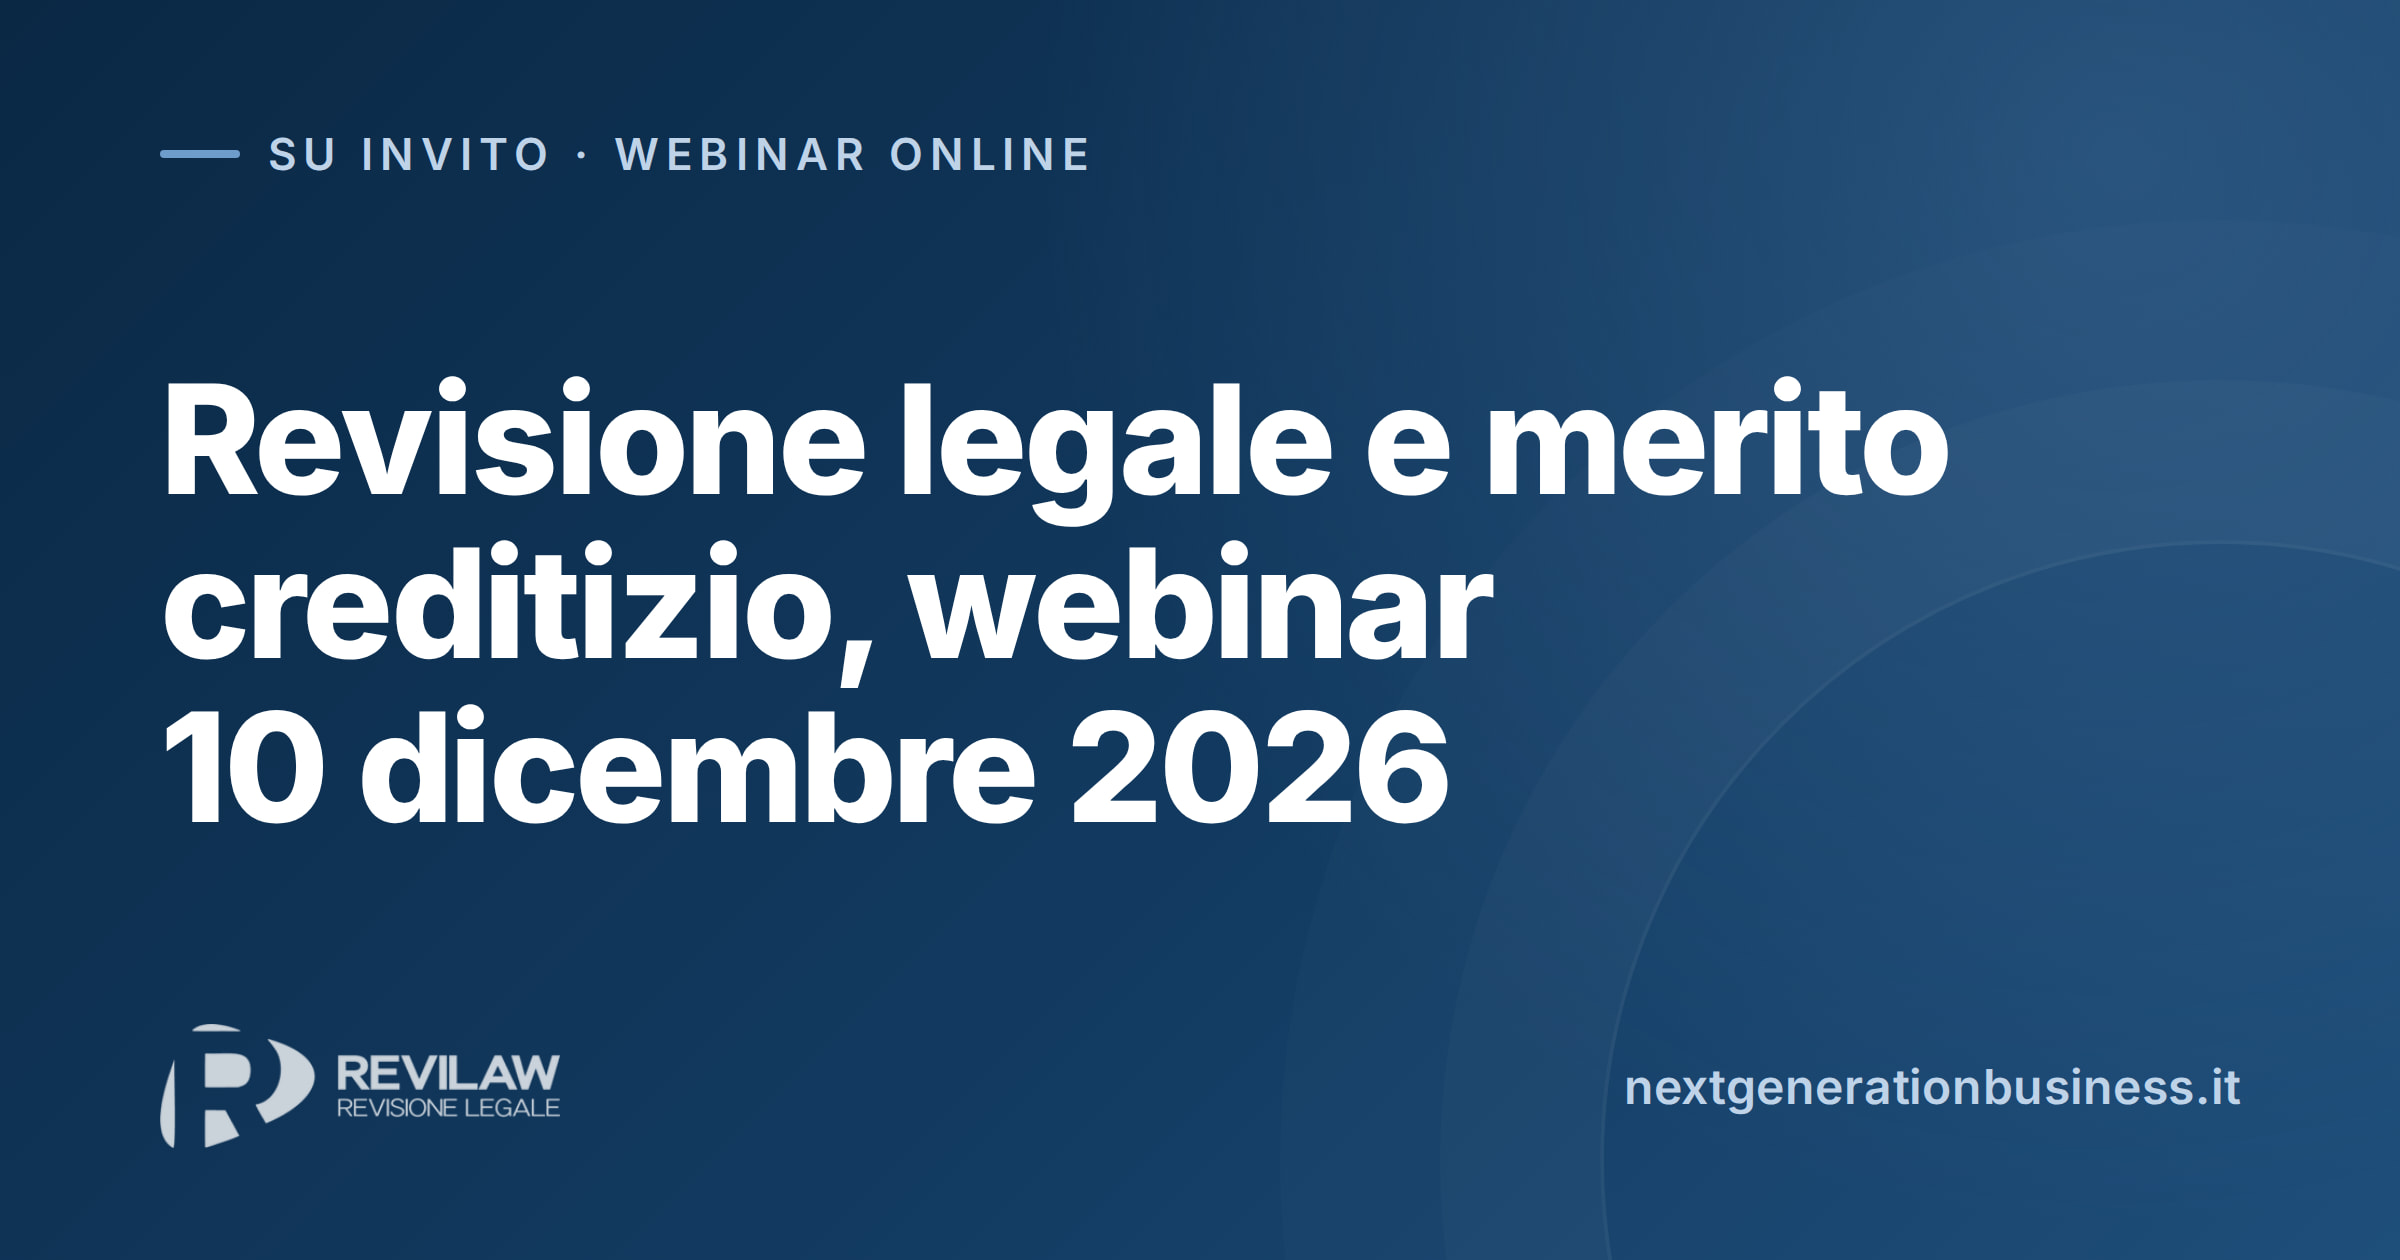
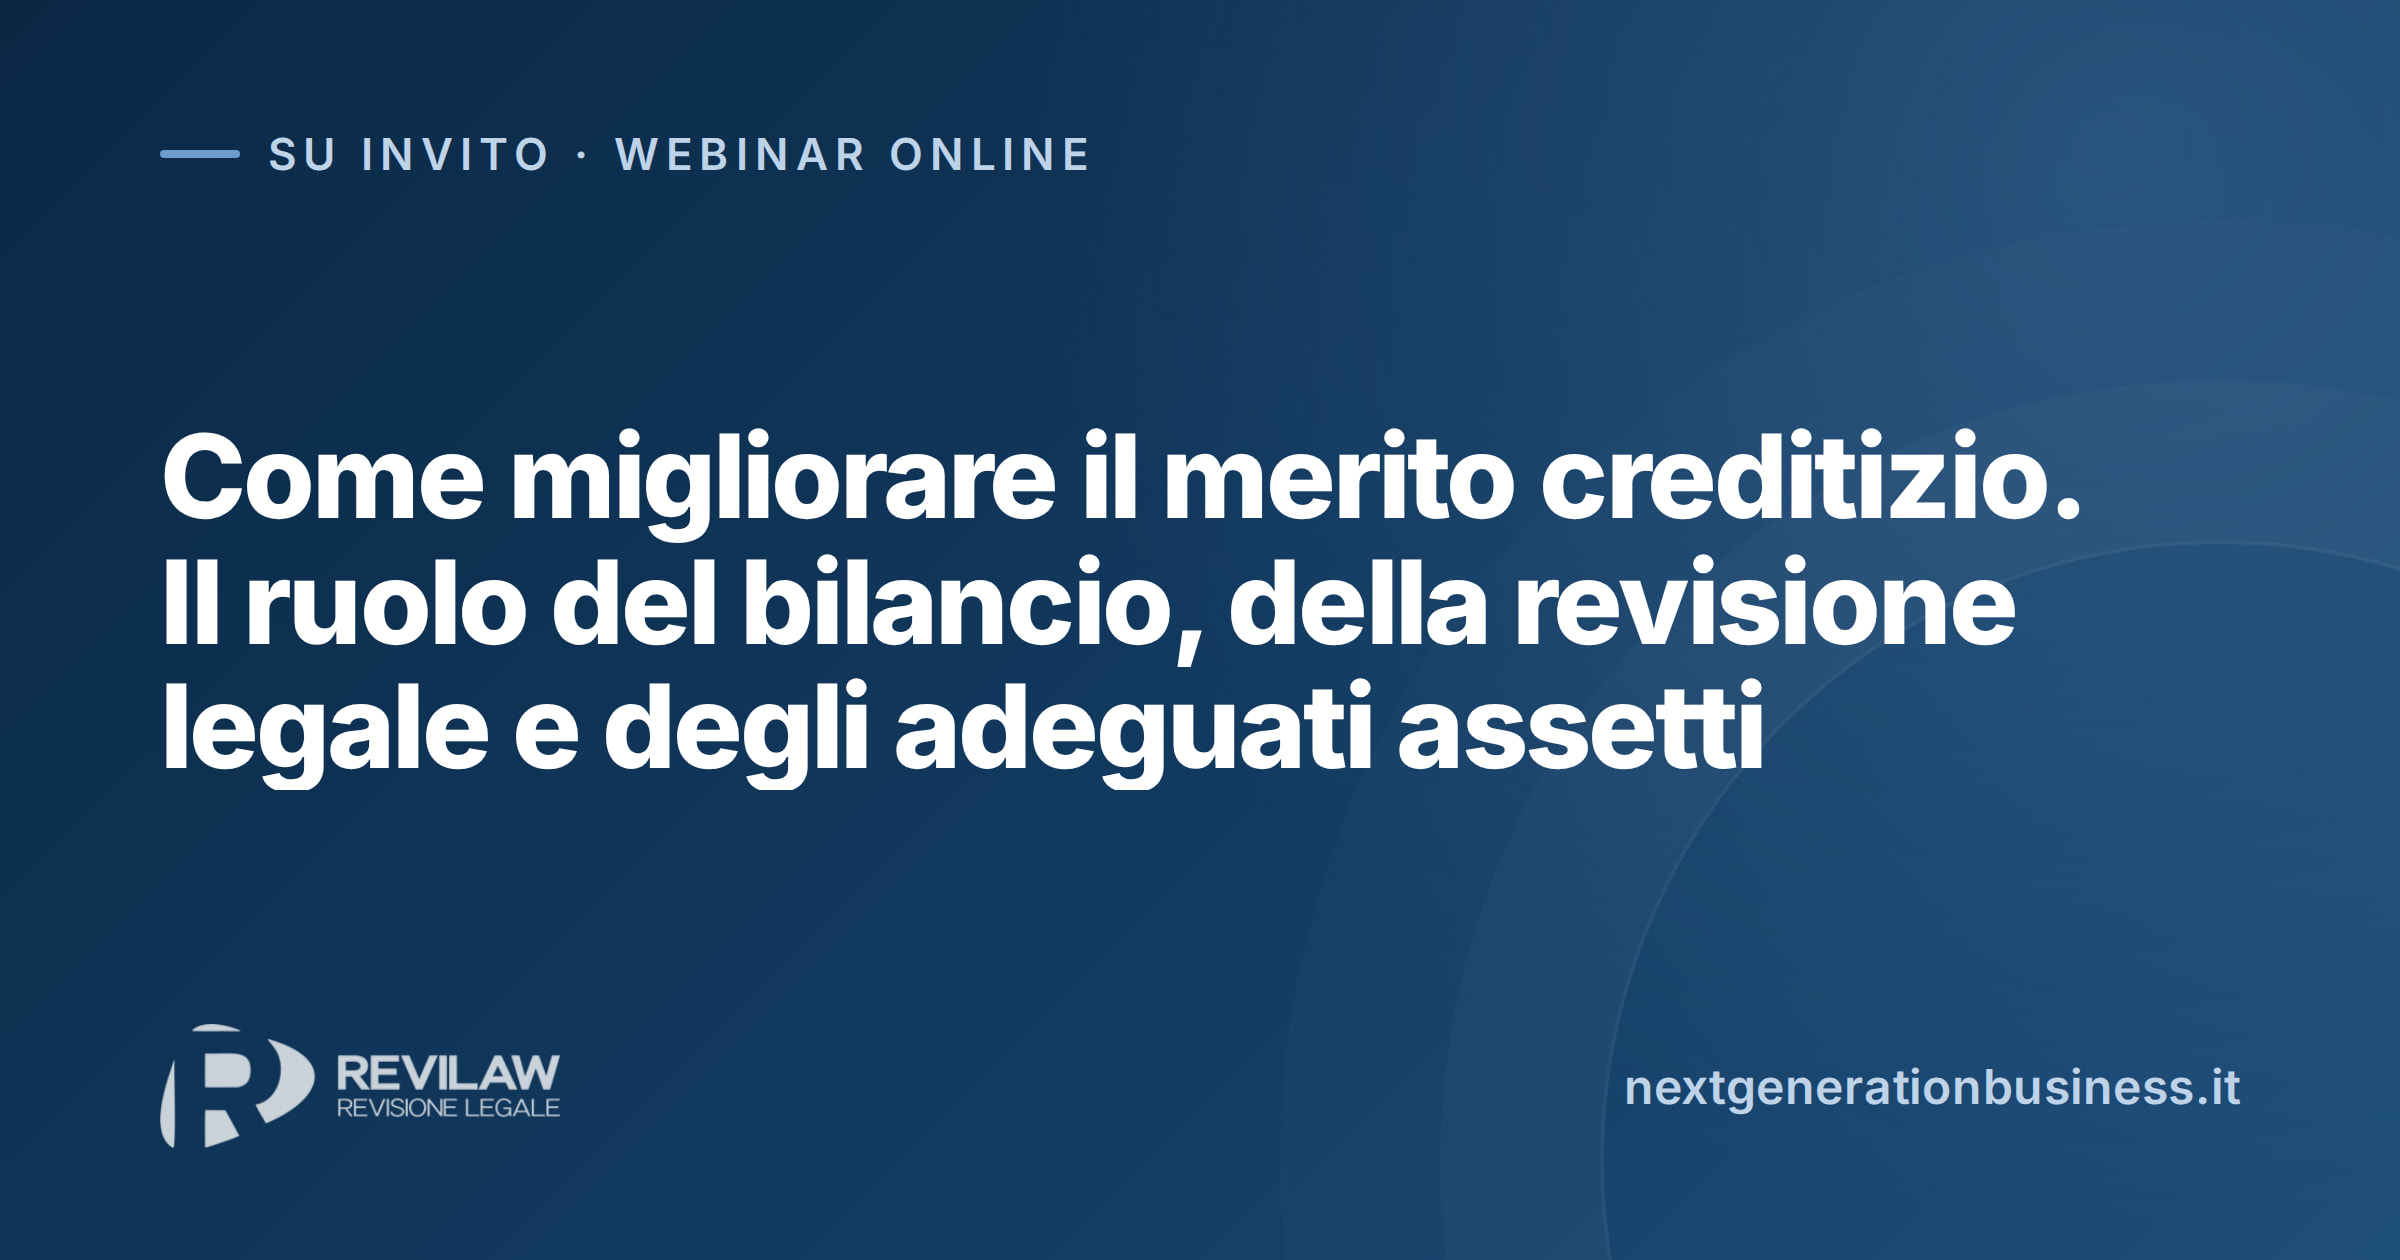
Anteprime social aggiornate

Changed region(s): [[0.0625, 0.2786, 0.875, 0.65]]

diff --git a/webinar_dicembre_2026/index.html b/webinar_dicembre_2026/index.html
@@ -34,12 +34,12 @@
     <meta property="og:url" content="https://nextgenerationbusiness.it/webinar_dicembre_2026/">
     <meta property="og:title" content="Come migliorare il merito creditizio. Il ruolo del bilancio, della revisione legale e degli adeguati assetti">
     <meta property="og:description" content="Webinar su invito, in diretta giovedì 10 dicembre 2026 dalle 15.00 alle 17.00: come migliorare il merito creditizio. Il ruolo del bilancio, della revisione legale e degli adeguati assetti, in un dialogo con esempi dalle imprese, per imprenditori, amministratori e responsabili finanziari.">
-    <meta property="og:image" content="https://nextgenerationbusiness.it/assets/og/webinar_dicembre_2026.jpg?v=7b7a35a001">
-    <meta property="og:image:secure_url" content="https://nextgenerationbusiness.it/assets/og/webinar_dicembre_2026.jpg?v=7b7a35a001">
+    <meta property="og:image" content="https://nextgenerationbusiness.it/assets/og/webinar_dicembre_2026.jpg?v=5b6692c6d1">
+    <meta property="og:image:secure_url" content="https://nextgenerationbusiness.it/assets/og/webinar_dicembre_2026.jpg?v=5b6692c6d1">
     <meta property="og:image:type" content="image/jpeg">
     <meta property="og:image:width" content="2400">
     <meta property="og:image:height" content="1260">
-    <meta property="og:image:alt" content="Come migliorare il merito creditizio. Il ruolo del bilancio, della revisione legale e degli adeguati assetti, webinar 10 dicembre 2026">
+    <meta property="og:image:alt" content="Come migliorare il merito creditizio. Il ruolo del bilancio, della revisione legale e degli adeguati assetti">
     <meta property="og:locale" content="it_IT">
     <meta property="event:start_time" content="2026-12-10T15:00:00+01:00">
     <meta property="event:end_time" content="2026-12-10T17:00:00+01:00">
@@ -49,8 +49,8 @@
     <meta name="twitter:url" content="https://nextgenerationbusiness.it/webinar_dicembre_2026/">
     <meta name="twitter:title" content="Come migliorare il merito creditizio. Il ruolo del bilancio, della revisione legale e degli adeguati assetti">
     <meta name="twitter:description" content="Webinar su invito, in diretta giovedì 10 dicembre 2026 dalle 15.00 alle 17.00: come migliorare il merito creditizio. Il ruolo del bilancio, della revisione legale e degli adeguati assetti, in un dialogo con esempi dalle imprese, per imprenditori, amministratori e responsabili finanziari.">
-    <meta name="twitter:image" content="https://nextgenerationbusiness.it/assets/og/webinar_dicembre_2026.jpg?v=7b7a35a001">
-    <meta name="twitter:image:alt" content="Come migliorare il merito creditizio. Il ruolo del bilancio, della revisione legale e degli adeguati assetti, webinar 10 dicembre 2026">
+    <meta name="twitter:image" content="https://nextgenerationbusiness.it/assets/og/webinar_dicembre_2026.jpg?v=5b6692c6d1">
+    <meta name="twitter:image:alt" content="Come migliorare il merito creditizio. Il ruolo del bilancio, della revisione legale e degli adeguati assetti">
 
     <!-- Fonts -->
     <link rel="preconnect" href="https://fonts.googleapis.com">
